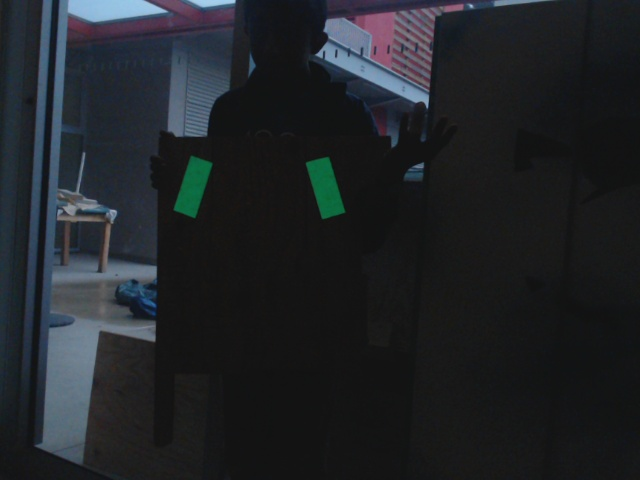
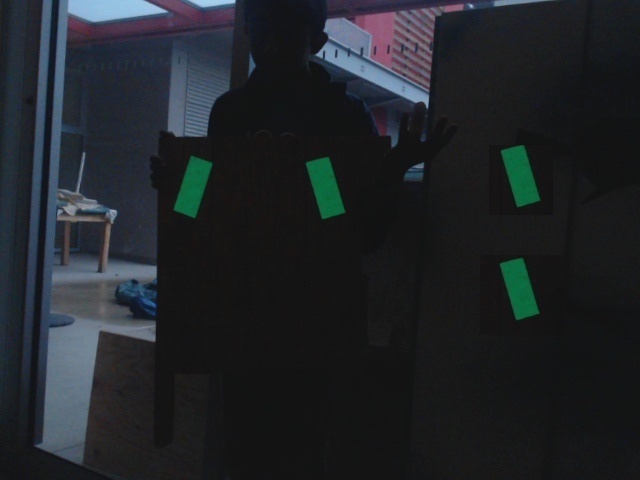
Inter commit

Changed region(s): [[0.7812, 0.5312, 0.8438, 0.6875], [0.7812, 0.2812, 0.8438, 0.4375]]

diff --git a/vision_cv/main.py b/vision_cv/main.py
@@ -1,11 +1,11 @@
 import cv2
 import numpy as np
 from PIL import Image
-from ScoringMetric import score
 import ScoringMetric
 import sys
 #import WebCam
 import PairFinding
+import random
 # WebCam.set(exposure = 0.1)
 
 min_area = 50
@@ -54,7 +54,7 @@ def findTarget(contours):
 
 def findContours():
     #image = WebCam.getImage()
-    file_obj = Image.open("../vision_cv/TestImages/TEST45.jpg") # Subject to change for tests.
+    file_obj = Image.open("../vision_cv/TestImages/TEST1.jpg") # Subject to change for tests.
     #file_obj = Image.open("../vision_cv/TestImages0-1Tape/TEST2.jpg")
     data = []
     for x in range(640):
@@ -91,24 +91,23 @@ if(__name__ == "__main__"):
         boxes = []
 
         weights = {
-                "ratio": 0,
+                "hw_ratio": 3,
                 "area": 0,
                 "parallelogram_infunc": 1,
                 "parallelogram_outfunc": 0,
                 "rotation_angle_infunc": 1,
                 "rotation_angle_outfunc": 0,
-                "contour_area_values": 1,
+                "contour_area_values": 0,
             }
-        min_threshold = 0
+        min_threshold = 1
 
         for i in range(len(contours)):
             rect = cv2.minAreaRect(contours[i])
             box = cv2.boxPoints(rect)
             box = np.int0(box)
-            points, contour_score = score(box, contours[i], image, weights)
+            points, contour_score = ScoringMetric.score(box, contours[i], image, weights)
             boxes.append(points) #Array with all of the boxes with the format (t, r, b, l) for pair finding 
             box_scores.append((box, contour_score))
-            #print(box, score(box))
             cv2.drawContours(mask,[box],0,(0,255,0),2)
         # Now we draw boxes;
         box_scores = sorted(box_scores, key=lambda x: x[1])[::-1]
@@ -120,16 +119,14 @@ if(__name__ == "__main__"):
                 break
         box_scores = box_scores_filtered
         print(box_scores)
-        #print(box_scores)
-        #print(box_scores[0][1], box_scores[1][1])
         pairBoxes = PairFinding.pair_finding(boxes)
         if pairBoxes == None:
             foundPairs = False
             print("NO PAIRS")
         else:
             foundPairs = True
-            print("FOUND",len(pairBoxes) ,"PAIRS")
-        '''
+            print("FOUND " + str(len(pairBoxes)) + " PAIRS")
+    
         if(len(box_scores) > 0):
             for point in box_scores[0][0]:
                 print(point)
@@ -137,11 +134,19 @@ if(__name__ == "__main__"):
         if(len(box_scores) > 1):
             for point in box_scores[1][0]:
                #print(point)
-                cv2.circle(mask, (point[0], point[1]), 5, (255,255,0), 2)'''
+                cv2.circle(mask, (point[0], point[1]), 5, (255,255,0), 2)
+        """
         if foundPairs:
             for i in pairBoxes:
+                randomBlue = random.randint(0,255)
+                randomGreen = random.randint(0,255)
+                randomRed = random.randint(0,255)
                 for j in i:
-                    cv2.circle(mask, (j[0], j[1]), 5, (255,255,0), 2)
+                    cv2.circle(mask, (j[0][0], j[0][1]), 5, (randomRed,randomGreen,randomBlue), 2)
+                    cv2.circle(mask, (j[1][0], j[1][1]), 5, (randomRed,randomGreen,randomBlue), 2)
+                    cv2.circle(mask, (j[2][0], j[2][1]), 5, (randomRed,randomGreen,randomBlue), 2)
+                    cv2.circle(mask, (j[3][0], j[3][1]), 5, (randomRed,randomGreen,randomBlue), 2)
+        """
         cv2.drawContours(mask, contours, 0, (0,0,255), 2) # BGR, so this is red.
         if len(contours) > 1:
     #        try:

diff --git a/vision_cv/PairFinding.py b/vision_cv/PairFinding.py
@@ -6,14 +6,14 @@ def right_or_left(box):
     bottom = box[2]
     left = box[3]
     first = min([right, left], key = lambda t:t[1])
-    print(right==first)
     final = (bottom[0]+.1,bottom[1])
-    angle = ScoringMetric.findInsideAngle(first, bottom, final)
-    print(angle/math.pi*180)
-    if abs(175.5-angle/math.pi*180)<abs(14.5-angle/math.pi*180):
-        return 'l'
-    else:
+    angle = ScoringMetric.slope(first,bottom)
+    if angle<0:
+        angle = math.pi+angle
+    if abs(165.5-angle/math.pi*180)<abs(14.5-angle/math.pi*180):
         return 'r'
+    else:
+        return 'l'
 
 def pair_finding(boxes):
     pairs = []
@@ -23,11 +23,10 @@ def pair_finding(boxes):
     list_rotations = []
     for i in boxes:
         list_rotations.append(right_or_left(i))
-    print(list_rotations)
     for i in range(0,len(list_rotations)-1):
         if list_rotations[i]=='l' and list_rotations[i+1]=='r':
             pairs.append((boxes[i],boxes[i+1]))
-    if len(pairs)>0:
-        return pairs
-    else:
+    if len(pairs) == 0:
         return None
+    else:
+        return pairs

diff --git a/vision_cv/ScoringMetric.py b/vision_cv/ScoringMetric.py
@@ -15,10 +15,10 @@ def score(box, contour, image, weights):
 
     points = (top, right, bottom, left)
     if(len(set([tuple(top), tuple(bottom), tuple(left), tuple(right)])) < 4):
-        return -float("inf")
+        return points, -float("inf")
 
     dimension = (dist2d(top, left), dist2d(top, right)) #Height, width tuple
-    total_score += score_side_ratio(dimension) * weights["ratio"]
+    total_score += score_side_ratio(dimension) * weights["hw_ratio"]
     total_score += score_area_ratio(dimension, points) * weights["area"]
     total_score += scoring_parallelogram(points, weights["parallelogram_infunc"]) * weights["parallelogram_outfunc"]
     total_score += scoring_rotation_angle(right, bottom, weights["rotation_angle_infunc"]) * weights["rotation_angle_outfunc"]
